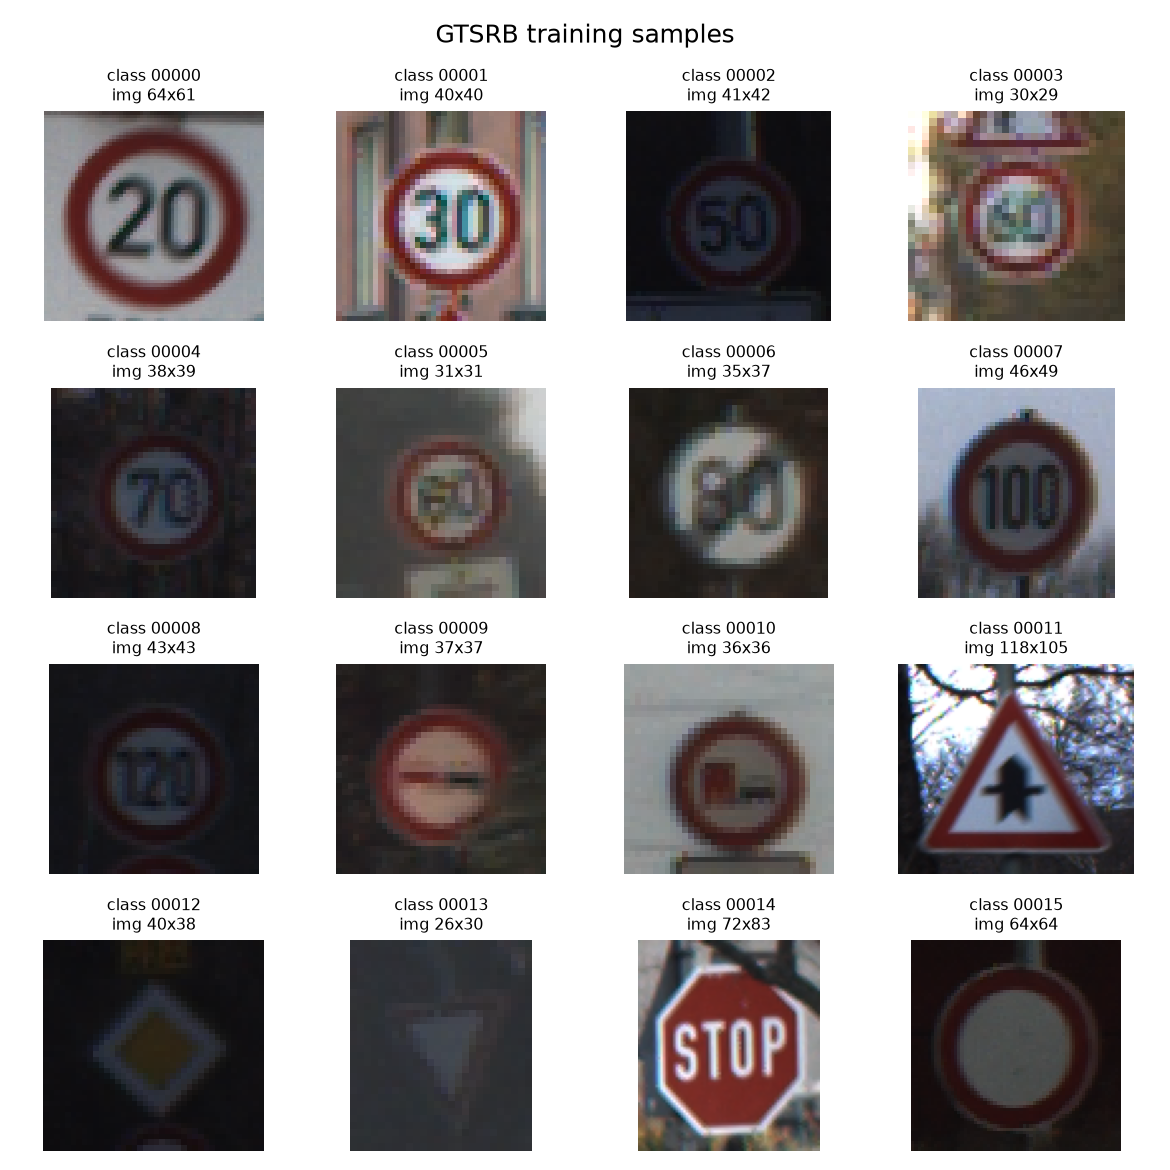
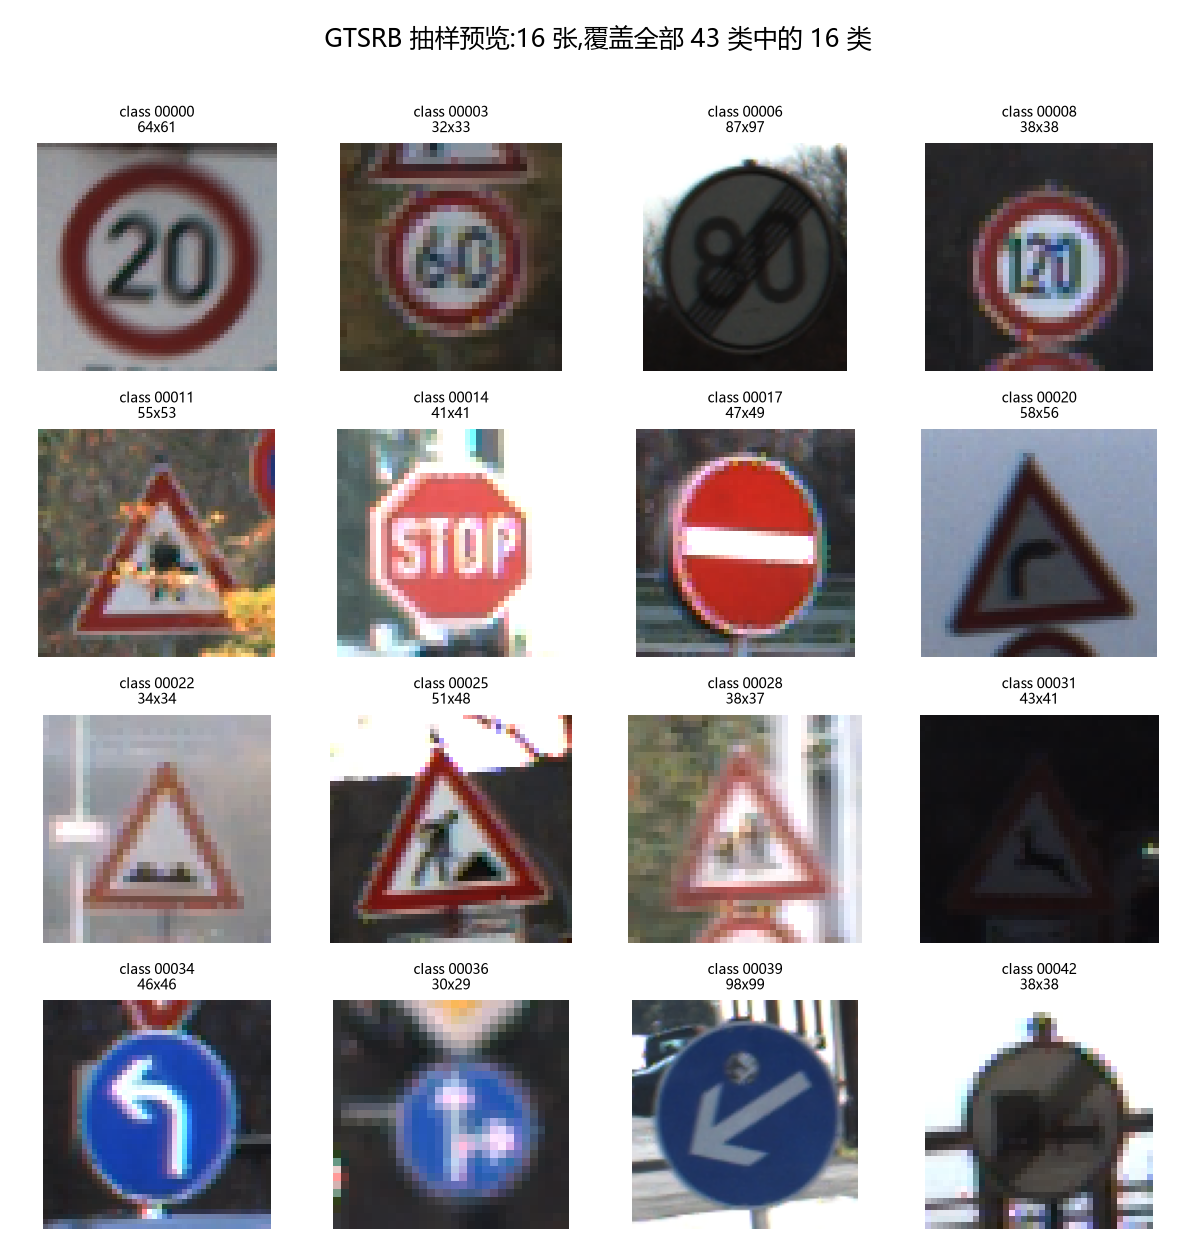
fix: 抽样预览按类别均匀取样并补充 43 类全览图
原先取的是编号最小的 16 个类别,恰好几乎全是红圈限速牌,体现不出数据多样性;改为在 43 类中均匀取样,并新增全类别全览图;同时补上中文标题的字体设置。

diff --git a/scripts/preview_samples.py b/scripts/preview_samples.py
@@ -1,63 +1,110 @@
-"""从 GTSRB 中抽样若干图片拼成网格图,直观查看数据长什么样。
+"""把数据集画成图,直观查看数据长什么样。
 
 用法:
-    uv run scripts/preview_samples.py
+    uv run scripts/preview_samples.py                # 抽样网格(默认 16 张)
+    uv run scripts/preview_samples.py --num-samples 24
+    uv run scripts/preview_samples.py --all-classes  # 43 个类别全览
 
 输出:
-    outputs/samples_grid.png
+    outputs/samples_grid.png    抽样网格
+    outputs/class_gallery.png   43 类全览(加 --all-classes)
+
+注意:抽样时**按类别编号均匀取**,不能直接取前 N 个类别。
+类别编号是按标志类型成片排列的(0-9 大多是限速牌、10-19 是禁令标志、
+20-31 是三角形警告标志、32-42 是解除限制与指示标志),
+只取前 16 个会得到一张几乎全是红圈限速牌的图,完全体现不出数据的多样性。
 """
 
+import argparse
+import math
 from pathlib import Path
 
 import matplotlib
-import pandas as pd
-from PIL import Image
 
-matplotlib.use("Agg")  # 无界面环境下绘图
+matplotlib.use("Agg")
 import matplotlib.pyplot as plt  # noqa: E402
+import numpy as np  # noqa: E402
+import pandas as pd  # noqa: E402
+from PIL import Image  # noqa: E402
+
+from ai_image_classification.data import (  # noqa: E402
+    TRAIN_DIR,
+    load_train_annotations,
+    setup_chinese_font,
+)
 
 PROJECT_ROOT = Path(__file__).resolve().parents[1]
-TRAIN_DIR = PROJECT_ROOT / "data" / "gtsrb" / "GTSRB" / "Training"
-OUT_PATH = PROJECT_ROOT / "outputs" / "samples_grid.png"
-
-ROWS, COLS = 4, 4
+OUTPUT_DIR = PROJECT_ROOT / "outputs"
 
 
-def load_annotations() -> pd.DataFrame:
-    frames = []
-    for csv_path in sorted(TRAIN_DIR.rglob("GT-*.csv")):
-        class_id = int(csv_path.stem.split("-")[1])
-        df = pd.read_csv(csv_path, sep=";")
-        df["class_id"] = class_id
-        df["class_dir"] = csv_path.parent.name
-        frames.append(df)
-    return pd.concat(frames, ignore_index=True)
+def one_sample_per_class(annotations: pd.DataFrame, class_ids) -> pd.DataFrame:
+    """给定的每个类别各抽一张。"""
+    picked = []
+    for class_id in class_ids:
+        rows = annotations[annotations["class_id"] == class_id]
+        picked.append(rows.sample(n=1, random_state=0))
+    return pd.concat(picked, ignore_index=True)
+
+
+def draw_grid(picked: pd.DataFrame, columns: int, title: str, out_path: Path,
+              figsize_scale: float = 2.3) -> None:
+    rows = math.ceil(len(picked) / columns)
+    fig, axes = plt.subplots(rows, columns,
+                             figsize=(figsize_scale * columns, figsize_scale * rows + 0.4))
+    axes = np.atleast_1d(axes).ravel()
+
+    for ax, (_, row) in zip(axes, picked.iterrows()):
+        path = TRAIN_DIR / row["image_path"]
+        image = Image.open(path).convert("RGB")
+        ax.imshow(image)
+        ax.set_title(f"class {row['class_id']:05d}\n{image.width}x{image.height}",
+                     fontsize=8)
+        ax.axis("off")
+
+    for ax in axes[len(picked):]:
+        ax.axis("off")
+
+    fig.suptitle(title, fontsize=14)
+    fig.tight_layout(rect=(0, 0, 1, 0.97))
+    fig.savefig(out_path, dpi=130)
+    plt.close(fig)
+    print(f"已保存:{out_path}")
 
 
 def main() -> None:
-    annotations = load_annotations()
+    parser = argparse.ArgumentParser(description="数据集可视化预览")
+    parser.add_argument("--num-samples", type=int, default=16,
+                        help="抽样网格的图片数量")
+    parser.add_argument("--all-classes", action="store_true",
+                        help="额外生成 43 个类别的全览图")
+    args = parser.parse_args()
 
-    # 每个大类抽一张,保证网格里出现的类别尽量分散
-    picked = annotations.groupby("class_id", group_keys=False).sample(
-        n=1, random_state=0
-    ).head(ROWS * COLS)
-    print(f"从 {annotations['class_id'].nunique()} 个类别中抽取 {len(picked)} 张:")
+    setup_chinese_font()  # 标题里有中文,不设置字体的话会画成方框
+    OUTPUT_DIR.mkdir(exist_ok=True)
+    annotations = load_train_annotations()
+    all_classes = sorted(annotations["class_id"].unique())
+    print(f"数据集共 {len(annotations)} 张图、{len(all_classes)} 个类别")
 
-    fig, axes = plt.subplots(ROWS, COLS, figsize=(9, 9))
-    for ax, (_, row) in zip(axes.ravel(), picked.iterrows()):
-        path = TRAIN_DIR / row["class_dir"] / row["Filename"]
-        img = Image.open(path).convert("RGB")
-        ax.imshow(img)
-        ax.set_title(f"class {row['class_id']:05d}\nimg {img.width}x{img.height}",
-                     fontsize=9)
-        ax.axis("off")
-        print(f"  class {row['class_id']:05d}  {row['Filename']}  {img.width}x{img.height}")
+    # 按类别编号均匀取,保证覆盖到各种类型的标志
+    positions = np.linspace(0, len(all_classes) - 1, args.num_samples)
+    class_ids = [all_classes[int(round(p))] for p in positions]
+    picked = one_sample_per_class(annotations, class_ids)
+    print(f"\n抽样 {len(picked)} 张(类别 " + ", ".join(f"{c:02d}" for c in class_ids) + "):")
+    for _, row in picked.iterrows():
+        print(f"  class {row['class_id']:05d}  {row['Filename']}  "
+              f"{row['Width']}x{row['Height']}")
 
-    fig.suptitle("GTSRB training samples", fontsize=14)
-    fig.tight_layout()
-    OUT_PATH.parent.mkdir(exist_ok=True)
-    fig.savefig(OUT_PATH, dpi=130)
-    print(f"\n网格图已保存:{OUT_PATH}")
+    draw_grid(picked, columns=4,
+              title=f"GTSRB 抽样预览:{len(picked)} 张,覆盖全部 43 类中的 "
+                    f"{len(class_ids)} 类",
+              out_path=OUTPUT_DIR / "samples_grid.png")
+
+    if args.all_classes:
+        gallery = one_sample_per_class(annotations, all_classes)
+        draw_grid(gallery, columns=7,
+                  title="GTSRB 全部 43 个类别各一张",
+                  out_path=OUTPUT_DIR / "class_gallery.png",
+                  figsize_scale=1.75)
 
 
 if __name__ == "__main__":

diff --git a/scripts/collect_figures.py b/scripts/collect_figures.py
@@ -24,6 +24,7 @@ TARGET_DIR = PROJECT_ROOT / "docs" / "figures"
 # 源文件 -> 入库文件名
 FIGURES = {
     "samples_grid.png": "samples.png",
+    "class_gallery.png": "class_gallery.png",
     "fig_class_distribution.png": "class_distribution.png",
     "fig_image_size.png": "image_size.png",
     "fig_curves_comparison.png": "curves_comparison.png",

diff --git a/docs/项目说明.md b/docs/项目说明.md
@@ -63,9 +63,14 @@
 明显低于 ImageNet 的 0.485,说明这批照片整体偏暗,
 因此归一化参数采用本项目自己统计的结果,而不是照搬通用配置。
 
-各取一张的样本示例:
+抽样预览(从 43 类中均匀取 16 类,每类一张):
 
 ![样本示例](figures/samples.png)
+
+全部 43 个类别各一张,可以直观看到各类标志的差异——
+红色圆形是限速与禁令标志,三角形是警告标志,蓝色圆形是指示标志:
+
+![43 类全览](figures/class_gallery.png)
 
 ## 四、技术方案
 

diff --git a/README.md b/README.md
@@ -90,5 +90,9 @@ https://benchmark.ini.rub.de/gtsrb_dataset.html
 
 ![推理演示](docs/figures/predictions.png)
 
+数据集本身的 43 个类别各一张:
+
+![43 类全览](docs/figures/class_gallery.png)
+
 完整的实验数据、分析与复现方式见 [docs/实验结果.md](docs/实验结果.md),
 项目说明与个人感悟见 [docs/项目说明.md](docs/项目说明.md)。
